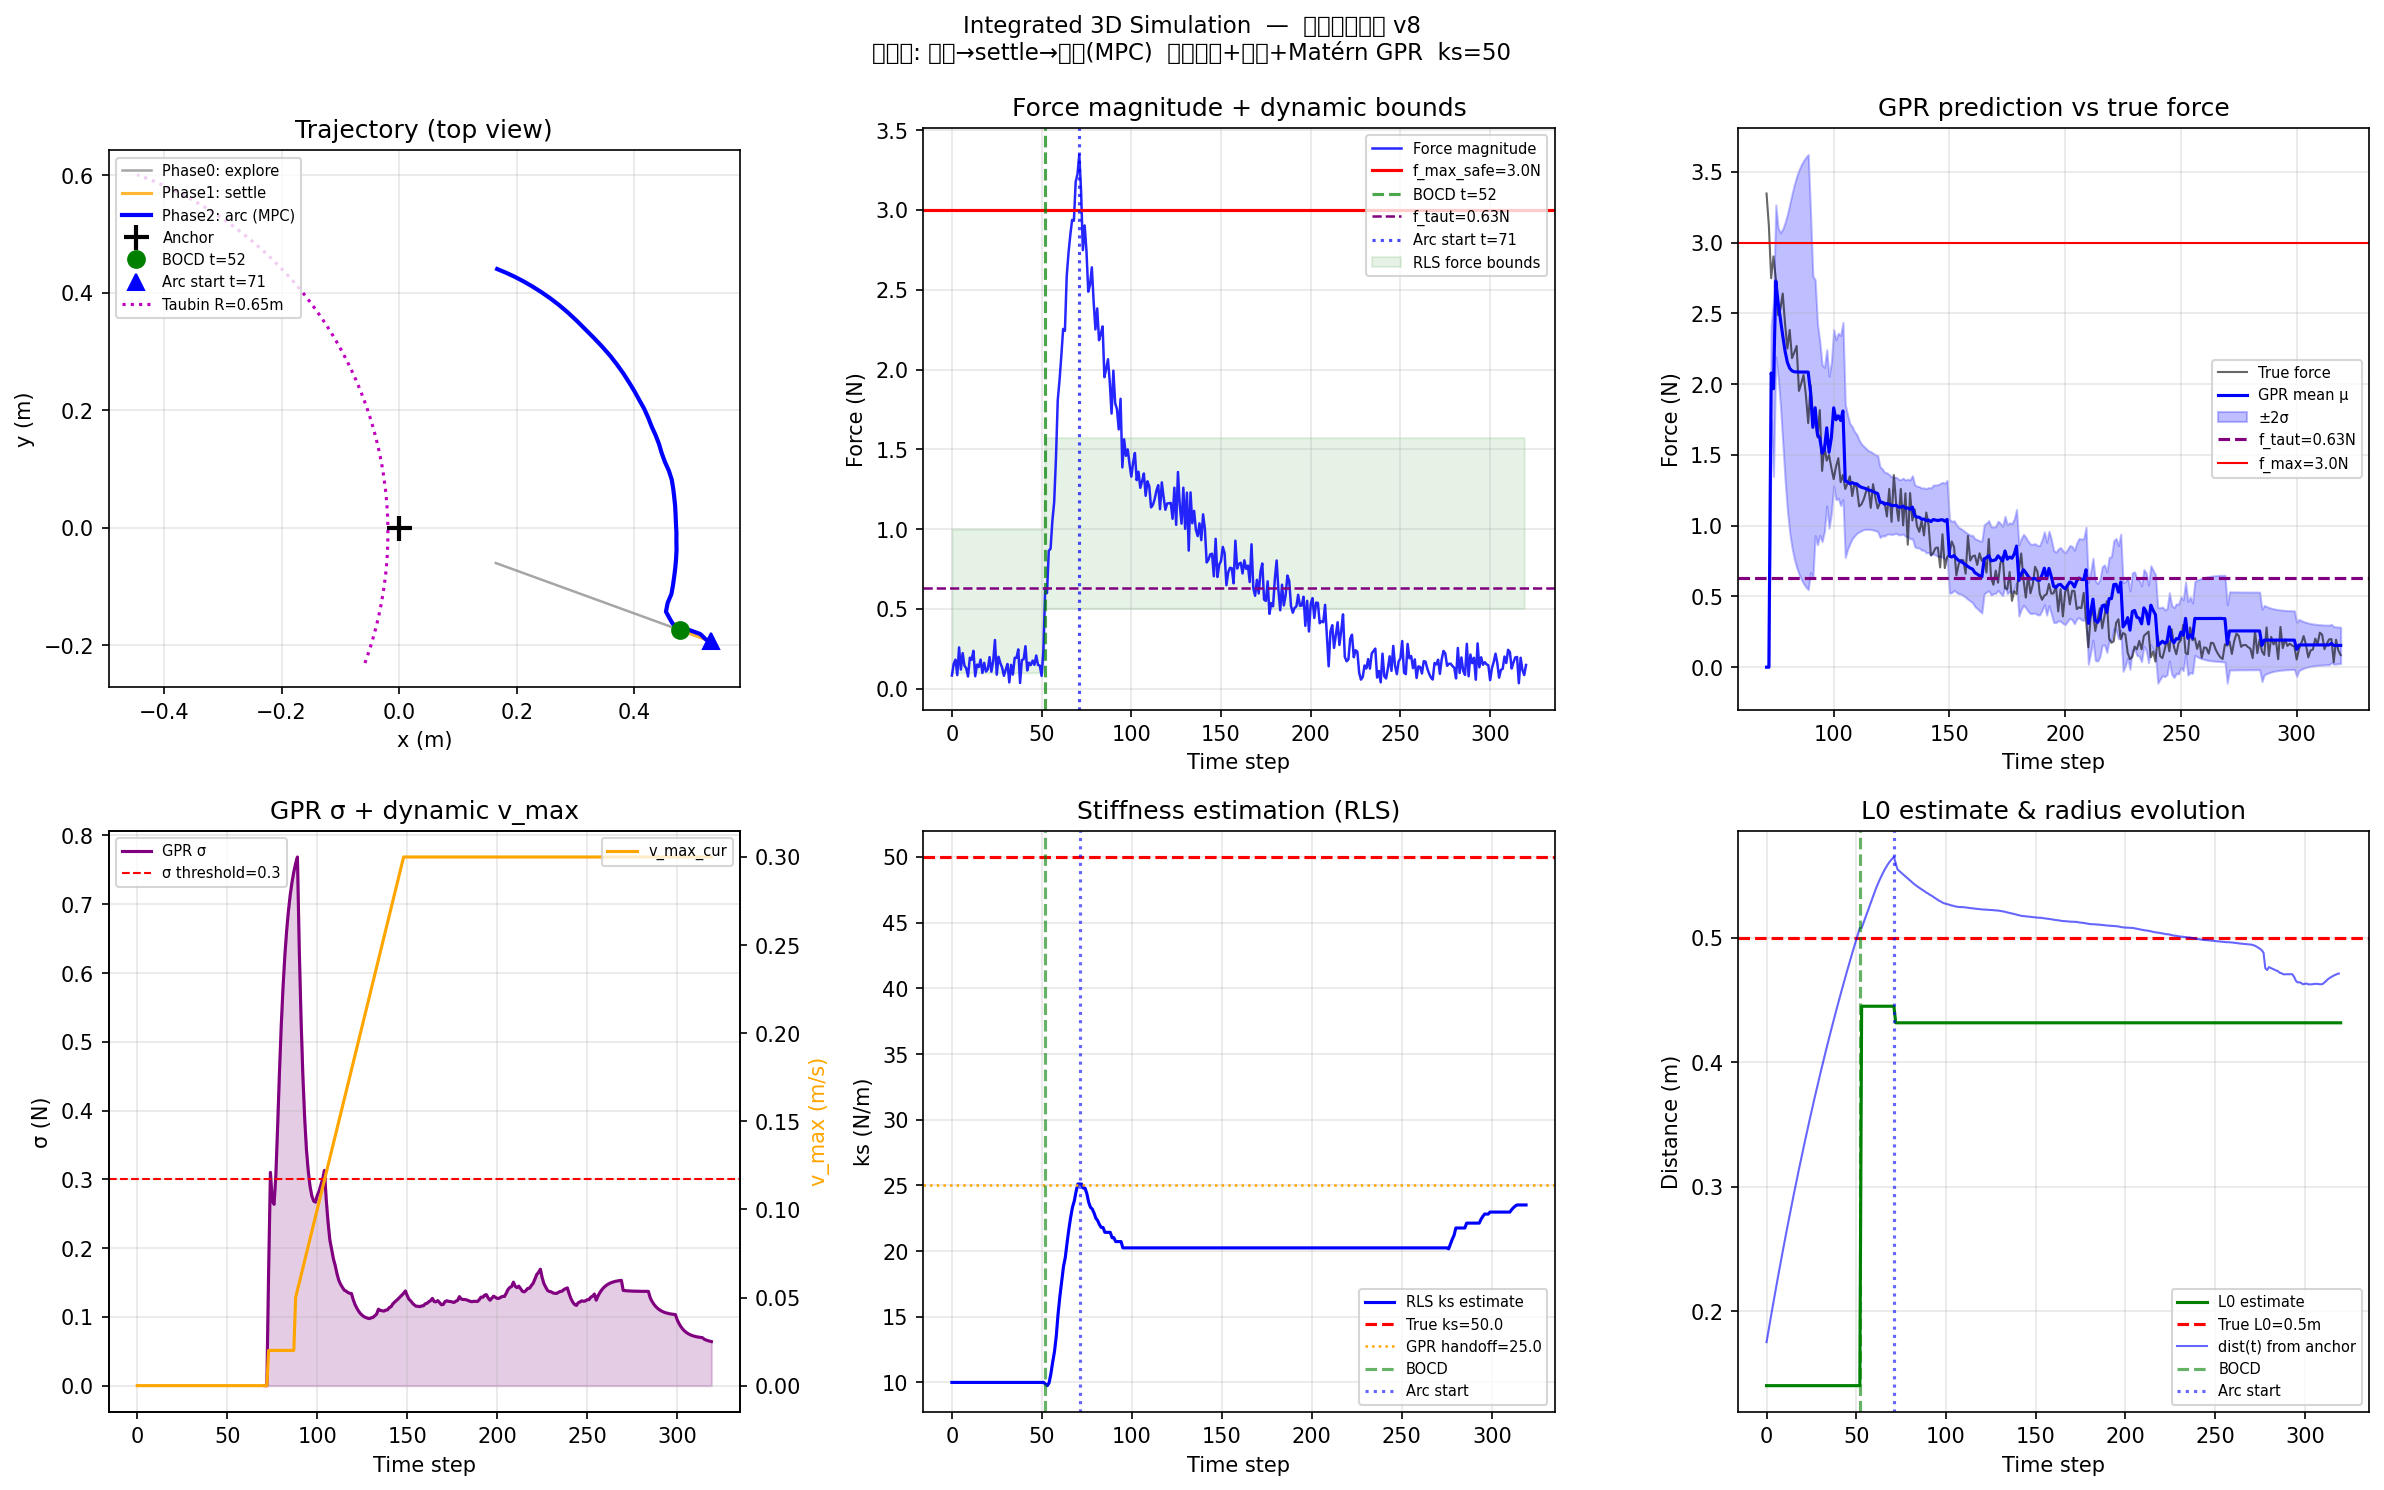
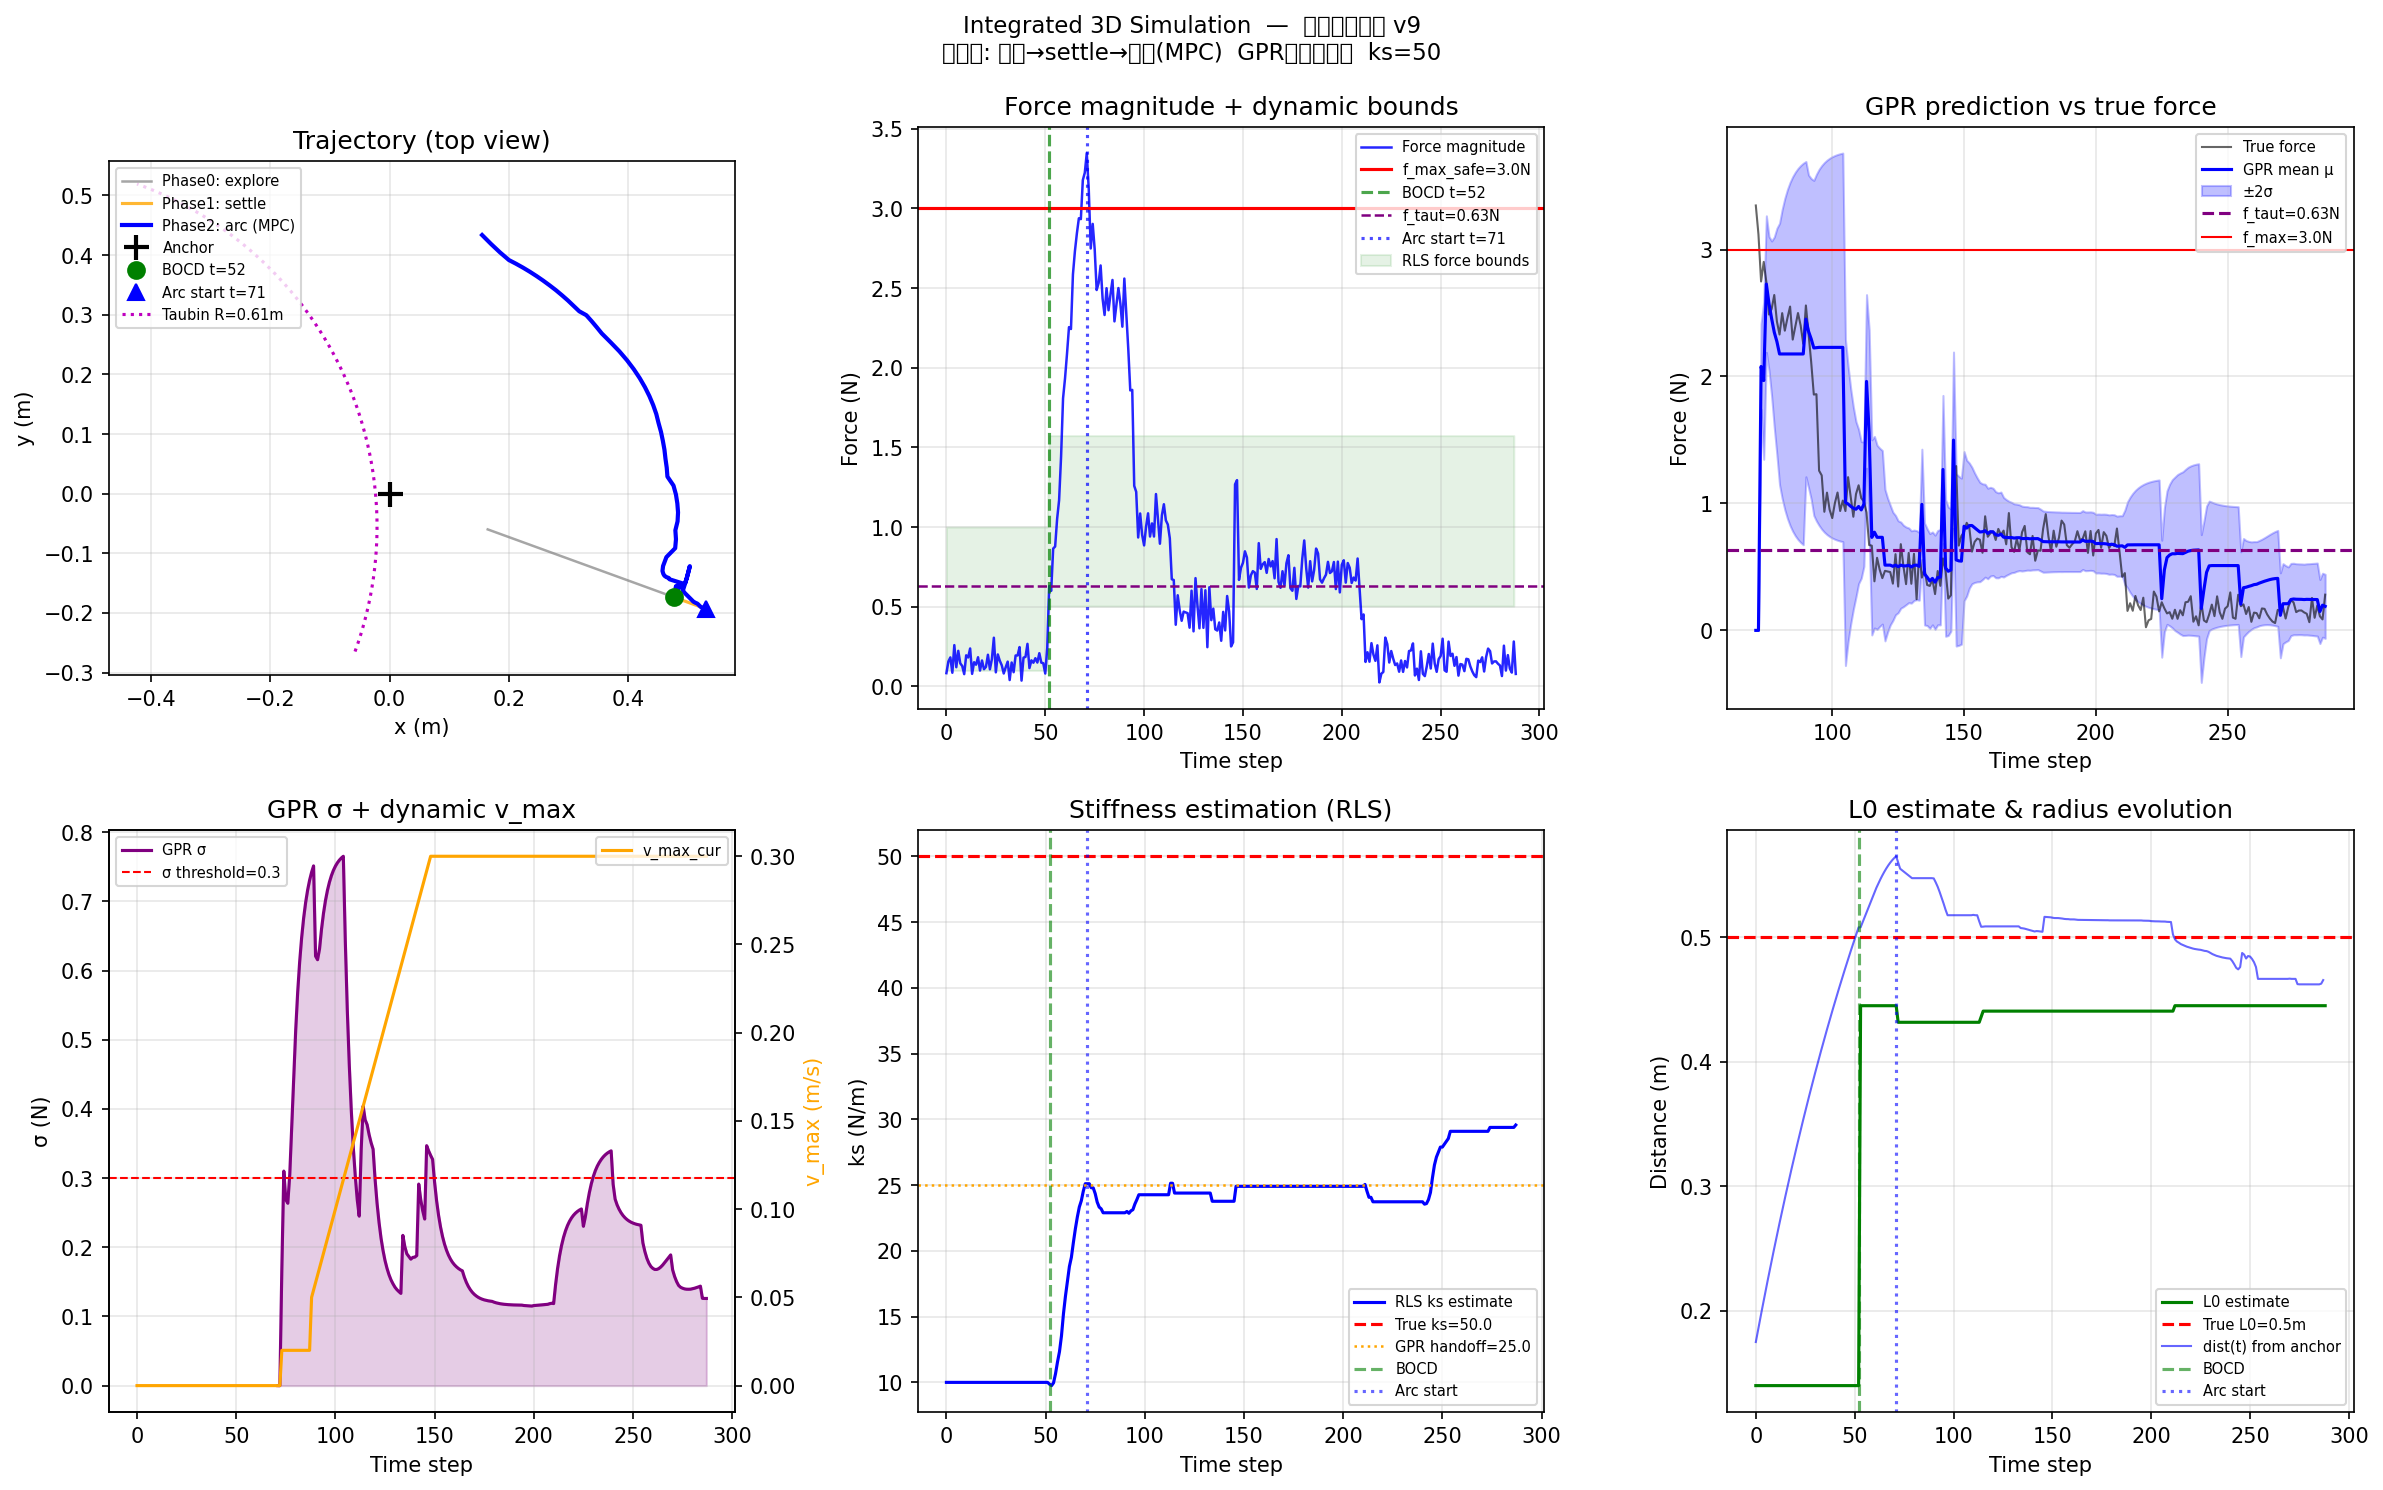
V9

diff --git a/integrated_sim_3d.py b/integrated_sim_3d.py
@@ -1,14 +1,13 @@
 """
-Integrated 3D Simulation — 大纲四层架构 v8
+Integrated 3D Simulation — 大纲四层架构 v9
 
-修改（相对 v7）：
-1. arc 早期安全预热：前 ARC_WARMUP_STEPS 步 v_max 锁在极低值
-   临床意义：治疗师刚开始牵引时先轻推确认方向和阻力，再正式发力
-2. GPR 输入加入角度特征 theta（RBF kernel，各维独立 length_scale）
-   让 GPR 感知弧线不同位置的力变化；Matérn 计算太慢暂不使用
-3. 代价函数加轻微区间中点吸引项，给优化器在可行域内提供梯度方向
-4. settle 阶段 GPR fit 改为数据量 ≥ 15 才开始，避免早期过拟合噪声
-5. 安全回缩时正确更新 v_prev，消除回缩后第一步 ac 的尖峰噪声
+修改（相对 v8）：
+1. GPR 真正作为 MPC 主预测模型
+   - MPC 的 pf() 直接调用 gpr.predict()，不再经过 ks*stretch 弹簧公式
+   - GPR ready 前用 RLS 弹簧模型作为 fallback
+   - σ 直接作为 Tube-MPC 约束收紧依据，无需 local_ks 数值微分
+2. RLS 退出主预测流程，arc 阶段加 stretch 门控防止无激励漂移
+3. v8 的其他改动保留：径向约束、arc 预热、区间中点吸引、v_prev 修复
 """
 import matplotlib
 matplotlib.use('Agg')
@@ -199,18 +198,31 @@ def run_mpc_3d(p_cur, v_cur, ks_eff, b_rls, m_rls,
                anchor_est, L0_est,
                theta_cur, theta_target,
                f_taut, f_lower, f_upper,
-               sigma_gpr=0., v_max_cur=0.1, R_ref=None):
+               sigma_gpr=0., v_max_cur=0.1, R_ref=None,
+               gpr_model=None, gpr_ready=False):
 
     f_max_eff = f_upper - 2.0*np.clip(sigma_gpr, 0., 0.5)
     f_max_eff = max(f_max_eff, f_taut*1.1)
 
-    # 径向参考：没传入就用当前 dist
     if R_ref is None:
         R_ref = np.linalg.norm(p_cur - anchor_est)
 
     def pf(p_, v_, a_):
-        stretch = max(0., np.linalg.norm(p_-anchor_est) - L0_est)
-        return max(0., ks_eff*stretch + b_rls*np.linalg.norm(v_) + m_rls*np.linalg.norm(a_))
+        """GPR ready 时直接用 GPR 预测力，否则用 RLS 弹簧模型（用于代价函数）"""
+        dist_ = np.linalg.norm(p_ - anchor_est)
+        stretch_ = max(0., dist_ - L0_est)
+        vs_ = np.linalg.norm(v_)
+        theta_ = np.arctan2(p_[1]-anchor_est[1], p_[0]-anchor_est[0])
+        if gpr_ready and gpr_model is not None:
+            mu, _ = gpr_model.predict(stretch_, vs_, theta_)
+            if mu is not None:
+                return max(0., mu)
+        return max(0., ks_eff*stretch_ + b_rls*vs_ + m_rls*np.linalg.norm(a_))
+
+    def pf_fast(p_, v_, a_):
+        """轻量弹簧模型，用于约束函数（避免约束评估时反复调用 GPR）"""
+        stretch_ = max(0., np.linalg.norm(p_-anchor_est) - L0_est)
+        return max(0., ks_eff*stretch_ + b_rls*np.linalg.norm(v_) + m_rls*np.linalg.norm(a_))
 
     def cost(u_flat):
         u_seq=u_flat.reshape(MPC_N,3); p=p_cur.copy(); v=v_cur.copy(); c=0.
@@ -243,13 +255,13 @@ def run_mpc_3d(p_cur, v_cur, ks_eff, b_rls, m_rls,
             def fn(u):
                 p=p_cur.copy(); v=v_cur.copy()
                 for i in range(k_+1): v=u.reshape(MPC_N,3)[i]; p=p+dt*v
-                return f_max_eff - pf(p,v,np.zeros(3))
+                return f_max_eff - pf_fast(p,v,np.zeros(3))
             return fn
         def make_lower(k_=k):
             def fn(u):
                 p=p_cur.copy(); v=v_cur.copy()
                 for i in range(k_+1): v=u.reshape(MPC_N,3)[i]; p=p+dt*v
-                return pf(p,v,np.zeros(3)) - f_lower
+                return pf_fast(p,v,np.zeros(3)) - f_lower
             return fn
         # 径向约束：预测位置的 dist 不偏离 R_ref 超过 R_TOL
         def make_radial_upper(k_=k):
@@ -313,7 +325,7 @@ phase=0          # 0:探索  1:settle  2:弧线
 taut_step=None; arc_step=None
 arc_steps=0; settle_steps_done=0; settle_base_dist=0.
 f_taut=0.2; f_lower=0.1; f_upper=1.0
-sigma_s=0.; R_ref=None
+sigma_s=0.; R_ref=None; st_prev=0.
 
 hp=[p_cur.copy()]; hf=[]; hsig=[]; hks=[]
 hgmu=[]; hgsig=[]; hL0=[L0_est]; hphase=[]
@@ -363,8 +375,8 @@ for t in range(T_sim):
                       f"L0_est更新→{L0_est:.3f}m")
             else:
                 print(f"  [Settle→Arc] t={t:3d}: ks_est={rls.theta[0]:.1f} (超时，保留L0_est={L0_est:.3f}m)")
-            rls.set_lam(rls.lam)  # 切换回正常遗忘因子
-            R_ref = np.linalg.norm(p_cur - anchor_est)  # 初始化径向参考
+            rls.set_lam(rls.lam)
+            R_ref = np.linalg.norm(p_cur - anchor_est)
             st_prev = max(0., np.linalg.norm(p_cur - anchor_est) - L0_est)
 
     if phase==2 and theta_cur>=theta_target-0.03:
@@ -424,7 +436,7 @@ for t in range(T_sim):
         st=max(0., dist-L0_est); vs=np.linalg.norm(v_cur)
         ac=np.linalg.norm((v_cur-v_prev)/dt)
 
-        # RLS 持续更新
+        # RLS 更新：stretch 无激励时跳过，防止无信号漂移
         phi=np.array([st,vs,ac])
         stretch_delta = st - st_prev
         trls=rls.update(phi, fm, stretch_delta=stretch_delta)
@@ -432,27 +444,25 @@ for t in range(T_sim):
         f_lower, f_upper = rls.force_bounds(f_taut)
         f_upper = min(f_upper, f_max_safe)
 
-        # L0_est 滚动更新：用 RLS 最新 ks 持续修正
-        # 临床意义：机器人在牵引中持续修正对肢体弹性的估计
+        # L0_est 滚动更新（低通，防跳变）
         if trls[0] > KS_MIN_FOR_GPR and fm > f_taut * 0.5:
             L0_est_new = max(0.05, dist - fm / trls[0])
-            L0_est = 0.9 * L0_est + 0.1 * L0_est_new  # 低通滤波，防止跳变
+            L0_est = 0.9 * L0_est + 0.1 * L0_est_new
 
-        # R_ref 缓慢追踪真实 dist（防止径向约束中心和实际位置越来越偏）
+        # R_ref 缓慢追踪
         if arc_steps % R_REF_UPDATE == 0:
             R_ref = 0.8 * R_ref + 0.2 * dist
 
         # GPR 更新
         gpr.add_data(st, vs, theta_cur, fm)
         if t%15==0: gpr.fit()
-        mu,sr=gpr.predict(st, vs, theta_cur)
+        mu, sr = gpr.predict(st, vs, theta_cur)
         if sr is None: sr=0.
-        mu_val=trls[0]*st if mu is None else mu
-        sigma_s=0.2*sr+0.8*sigma_s
+        mu_val = trls[0]*st if mu is None else mu
+        sigma_s = 0.2*sr + 0.8*sigma_s
 
-        # GPR 延迟接管：RLS 收敛 + 数据量足够才用 GPR local_ks
-        gpr_ready = (trls[0] > KS_MIN_FOR_GPR) and (len(gpr.X) >= GPR_MIN_DATA)
-        ks_eff = gpr.local_ks(st, vs, theta_cur, ks_fallback=trls[0]) if gpr_ready else trls[0]
+        # GPR ready 条件：数据足够且已 fit
+        gpr_ready = gpr.fitted and (len(gpr.X) >= GPR_MIN_DATA)
         b_rls, m_rls = trls[1], trls[2]
 
         # 动态速度上限：预热阶段极低速，之后线性爬升
@@ -465,12 +475,13 @@ for t in range(T_sim):
         hks.append(trls[0]); hgmu.append(float(mu_val)); hgsig.append(sigma_s)
         h_flower.append(f_lower); h_fupper.append(f_upper); h_vmax.append(v_max_cur)
 
-        u=run_mpc_3d(p_cur, v_cur, ks_eff, b_rls, m_rls,
+        u=run_mpc_3d(p_cur, v_cur, trls[0], b_rls, m_rls,
                      anchor_est, L0_est,
                      theta_cur, theta_target,
                      f_taut, f_lower, f_upper,
                      sigma_gpr=sigma_s, v_max_cur=v_max_cur,
-                     R_ref=R_ref)
+                     R_ref=R_ref,
+                     gpr_model=gpr, gpr_ready=gpr_ready)
 
     hL0.append(L0_est); hphase.append(phase)
     v_prev=v_cur.copy(); v_cur=u.copy()
@@ -502,8 +513,8 @@ if arc_step is not None:
 # 绘图
 # ══════════════════════════════════════════════════════
 fig=plt.figure(figsize=(16,10))
-fig.suptitle("Integrated 3D Simulation  —  大纲四层架构 v8\n"
-             "三阶段: 探索→settle→弧线(MPC)  径向约束+预热+Matérn GPR  ks=50",
+fig.suptitle("Integrated 3D Simulation  —  大纲四层架构 v9\n"
+             "三阶段: 探索→settle→弧线(MPC)  GPR主预测模型  ks=50",
              fontsize=11, y=0.99)
 
 n=len(hf_a)